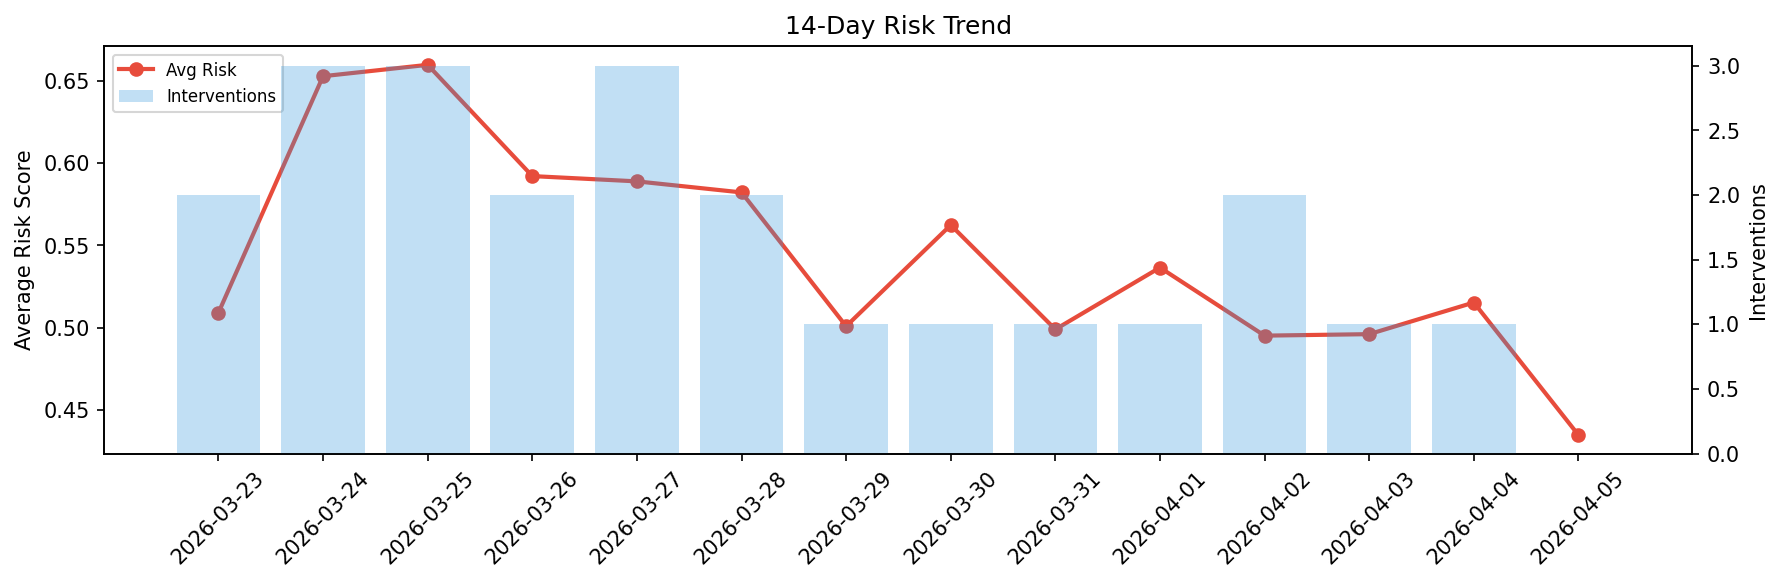
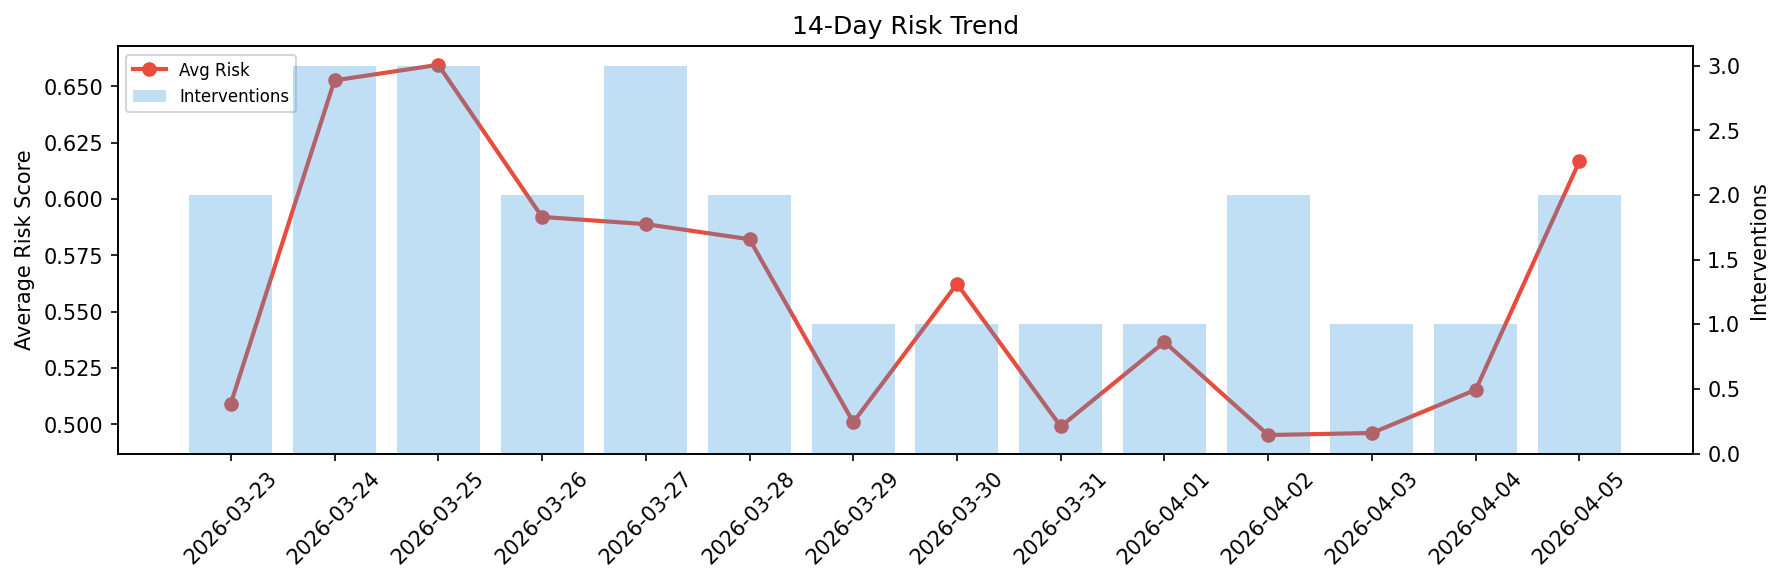
agent-improvement: daily cycle 2026-04-05T20:50

diff --git a/logs/2026-04-05.md b/logs/2026-04-05.md
@@ -1,6 +1,6 @@
 # Agent Improvement Report — 2026-04-05
 
-**Cycle ID:** `7dfadc0c` | **Avg Risk:** 0.435 | **Interventions:** 0/4
+**Cycle ID:** `06b7121f` | **Avg Risk:** 0.6169 | **Interventions:** 2/4
 
 ![Dashboard](2026-04-05_dashboard.png)
 
@@ -10,18 +10,18 @@
 
 | Domain | Risk Score | Decision | Alerts |
 |--------|-----------|----------|--------|
-| code_review | 0.514 | monitor | none |
-| incident_response | 0.3362 | monitor | none |
-| data_pipeline | 0.3715 | monitor | none |
-| deployment | 0.5185 | monitor | none |
+| code_review | 0.8512 | intervene | complexity, duplication, coverage |
+| incident_response | 0.4143 | monitor | none |
+| data_pipeline | 0.4271 | monitor | none |
+| deployment | 0.7749 | intervene | rollback_rate, canary_error |
 
 ## Delta vs Yesterday
 
 | Domain | Today | Yesterday | Change |
 |--------|-------|-----------|--------|
-| code_review | 0.514 | 0.4989 | 📈 3.0% |
-| incident_response | 0.3362 | 0.368 | 📉 -8.6% |
-| data_pipeline | 0.3715 | 0.5464 | 📉 -32.0% |
-| deployment | 0.5185 | 0.6484 | 📉 -20.0% |
+| code_review | 0.8512 | 0.4989 | 📈 70.6% |
+| incident_response | 0.4143 | 0.368 | 📈 12.6% |
+| data_pipeline | 0.4271 | 0.5464 | 📉 -21.8% |
+| deployment | 0.7749 | 0.6484 | 📈 19.5% |
 
-**Refinement:** `{'adjustment': 'tighten_thresholds', 'trend': 'degrading', 'window': 4}`
+**Refinement:** `{'adjustment': 'maintain', 'trend': 'improving', 'window': 4}`
